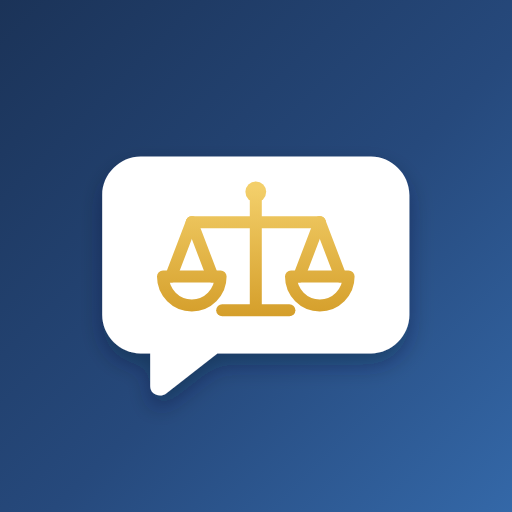
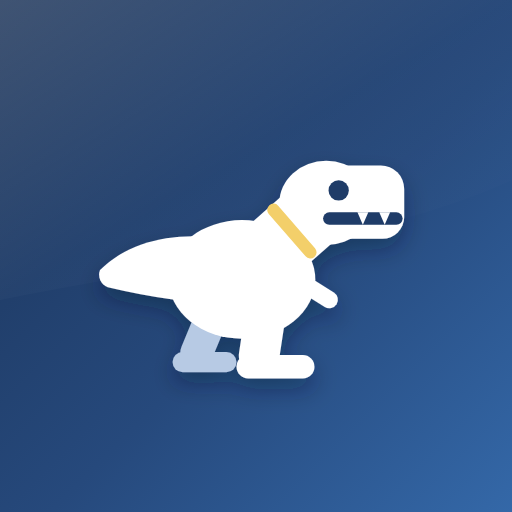
アイコンをティラノサウルス（T-Rex）の意匠にする
- icon.svg を描き直し、紺のグラデーション地に白いティラノサウルスの横向き姿を置いた
  （大きな頭と歯、小さな前あし、太いしっぽ。首もとに金の差し色）
- ホーム画面用の PNG（192・512・マスク可能・Apple）を作り直した。
  マスク可能アイコンは全面塗りで、中身を安全域（78%）に収めている
- アイコンの参照に付けている版番号を v3 に、サービスワーカーのキャッシュ名を v5 に上げ、
  端末に残っている古いアイコンが差し替わるようにした

Claude-Session: https://claude.ai/code/session_01GDzWoRZELGBPjA5ETCKbwH

Changed region(s): [[0.1875, 0.2812, 0.8125, 0.7812], [0.0, 0.0, 0.3438, 0.2188]]

diff --git a/apps/web/src/App.tsx b/apps/web/src/App.tsx
@@ -69,7 +69,7 @@ export default function App() {
     <div className="flex min-h-screen">
       <aside className="sticky top-0 hidden h-screen w-[232px] shrink-0 flex-col border-r border-[var(--hairline)] bg-white/60 backdrop-blur-2xl md:flex">
         <div className="flex items-center gap-3 px-4 pb-3 pt-5">
-          <img src="/icon.svg?v=2" alt="" className="h-9 w-9 rounded-[10px] shadow-[0_2px_6px_rgba(0,0,0,0.12)]" />
+          <img src="/icon.svg?v=3" alt="" className="h-9 w-9 rounded-[10px] shadow-[0_2px_6px_rgba(0,0,0,0.12)]" />
           <div className="min-w-0">
             <div className="truncate text-[15px] font-semibold tracking-[-0.02em]">T-Lex</div>
             <div className="truncate whitespace-nowrap text-[11px] text-slate-500">連絡・事件・期日をひとつに</div>

diff --git a/apps/web/src/pages/Login.tsx b/apps/web/src/pages/Login.tsx
@@ -51,7 +51,7 @@ export default function Login() {
     <div className="flex min-h-screen items-center justify-center p-4">
       <div className="card w-full max-w-[380px] space-y-6 p-8 shadow-[var(--shadow-float)]">
         <div className="flex flex-col items-center gap-3 text-center">
-          <img src="/icon.svg?v=2" alt="" className="h-16 w-16 rounded-[16px] shadow-[0_4px_14px_rgba(0,0,0,0.16)]" />
+          <img src="/icon.svg?v=3" alt="" className="h-16 w-16 rounded-[16px] shadow-[0_4px_14px_rgba(0,0,0,0.16)]" />
           <div>
             <h1 className="text-[22px] font-semibold tracking-[-0.02em]">T-Lex</h1>
             <p className="mt-0.5 text-xs text-slate-500">登大路総合法律事務所</p>

diff --git a/apps/web/index.html b/apps/web/index.html
@@ -10,8 +10,8 @@
     <meta name="apple-mobile-web-app-title" content="T-Lex" />
     <meta name="mobile-web-app-capable" content="yes" />
     <link rel="manifest" href="/manifest.json" />
-    <link rel="icon" href="/icon.svg?v=2" type="image/svg+xml" />
-    <link rel="apple-touch-icon" sizes="180x180" href="/apple-touch-icon.png?v=2" />
+    <link rel="icon" href="/icon.svg?v=3" type="image/svg+xml" />
+    <link rel="apple-touch-icon" sizes="180x180" href="/apple-touch-icon.png?v=3" />
     <title>T-Lex</title>
   </head>
   <body>

diff --git a/apps/web/public/sw.js b/apps/web/public/sw.js
@@ -1,5 +1,5 @@
 /* 最小限のサービスワーカー。画面の骨格だけをキャッシュし、API は常にネットワークへ */
-const VERSION = 'lcm-shell-v4';
+const VERSION = 'lcm-shell-v5';
 const SHELL = ['/', '/manifest.json', '/icon.svg', '/icon-192.png'];
 
 self.addEventListener('install', (event) => {
